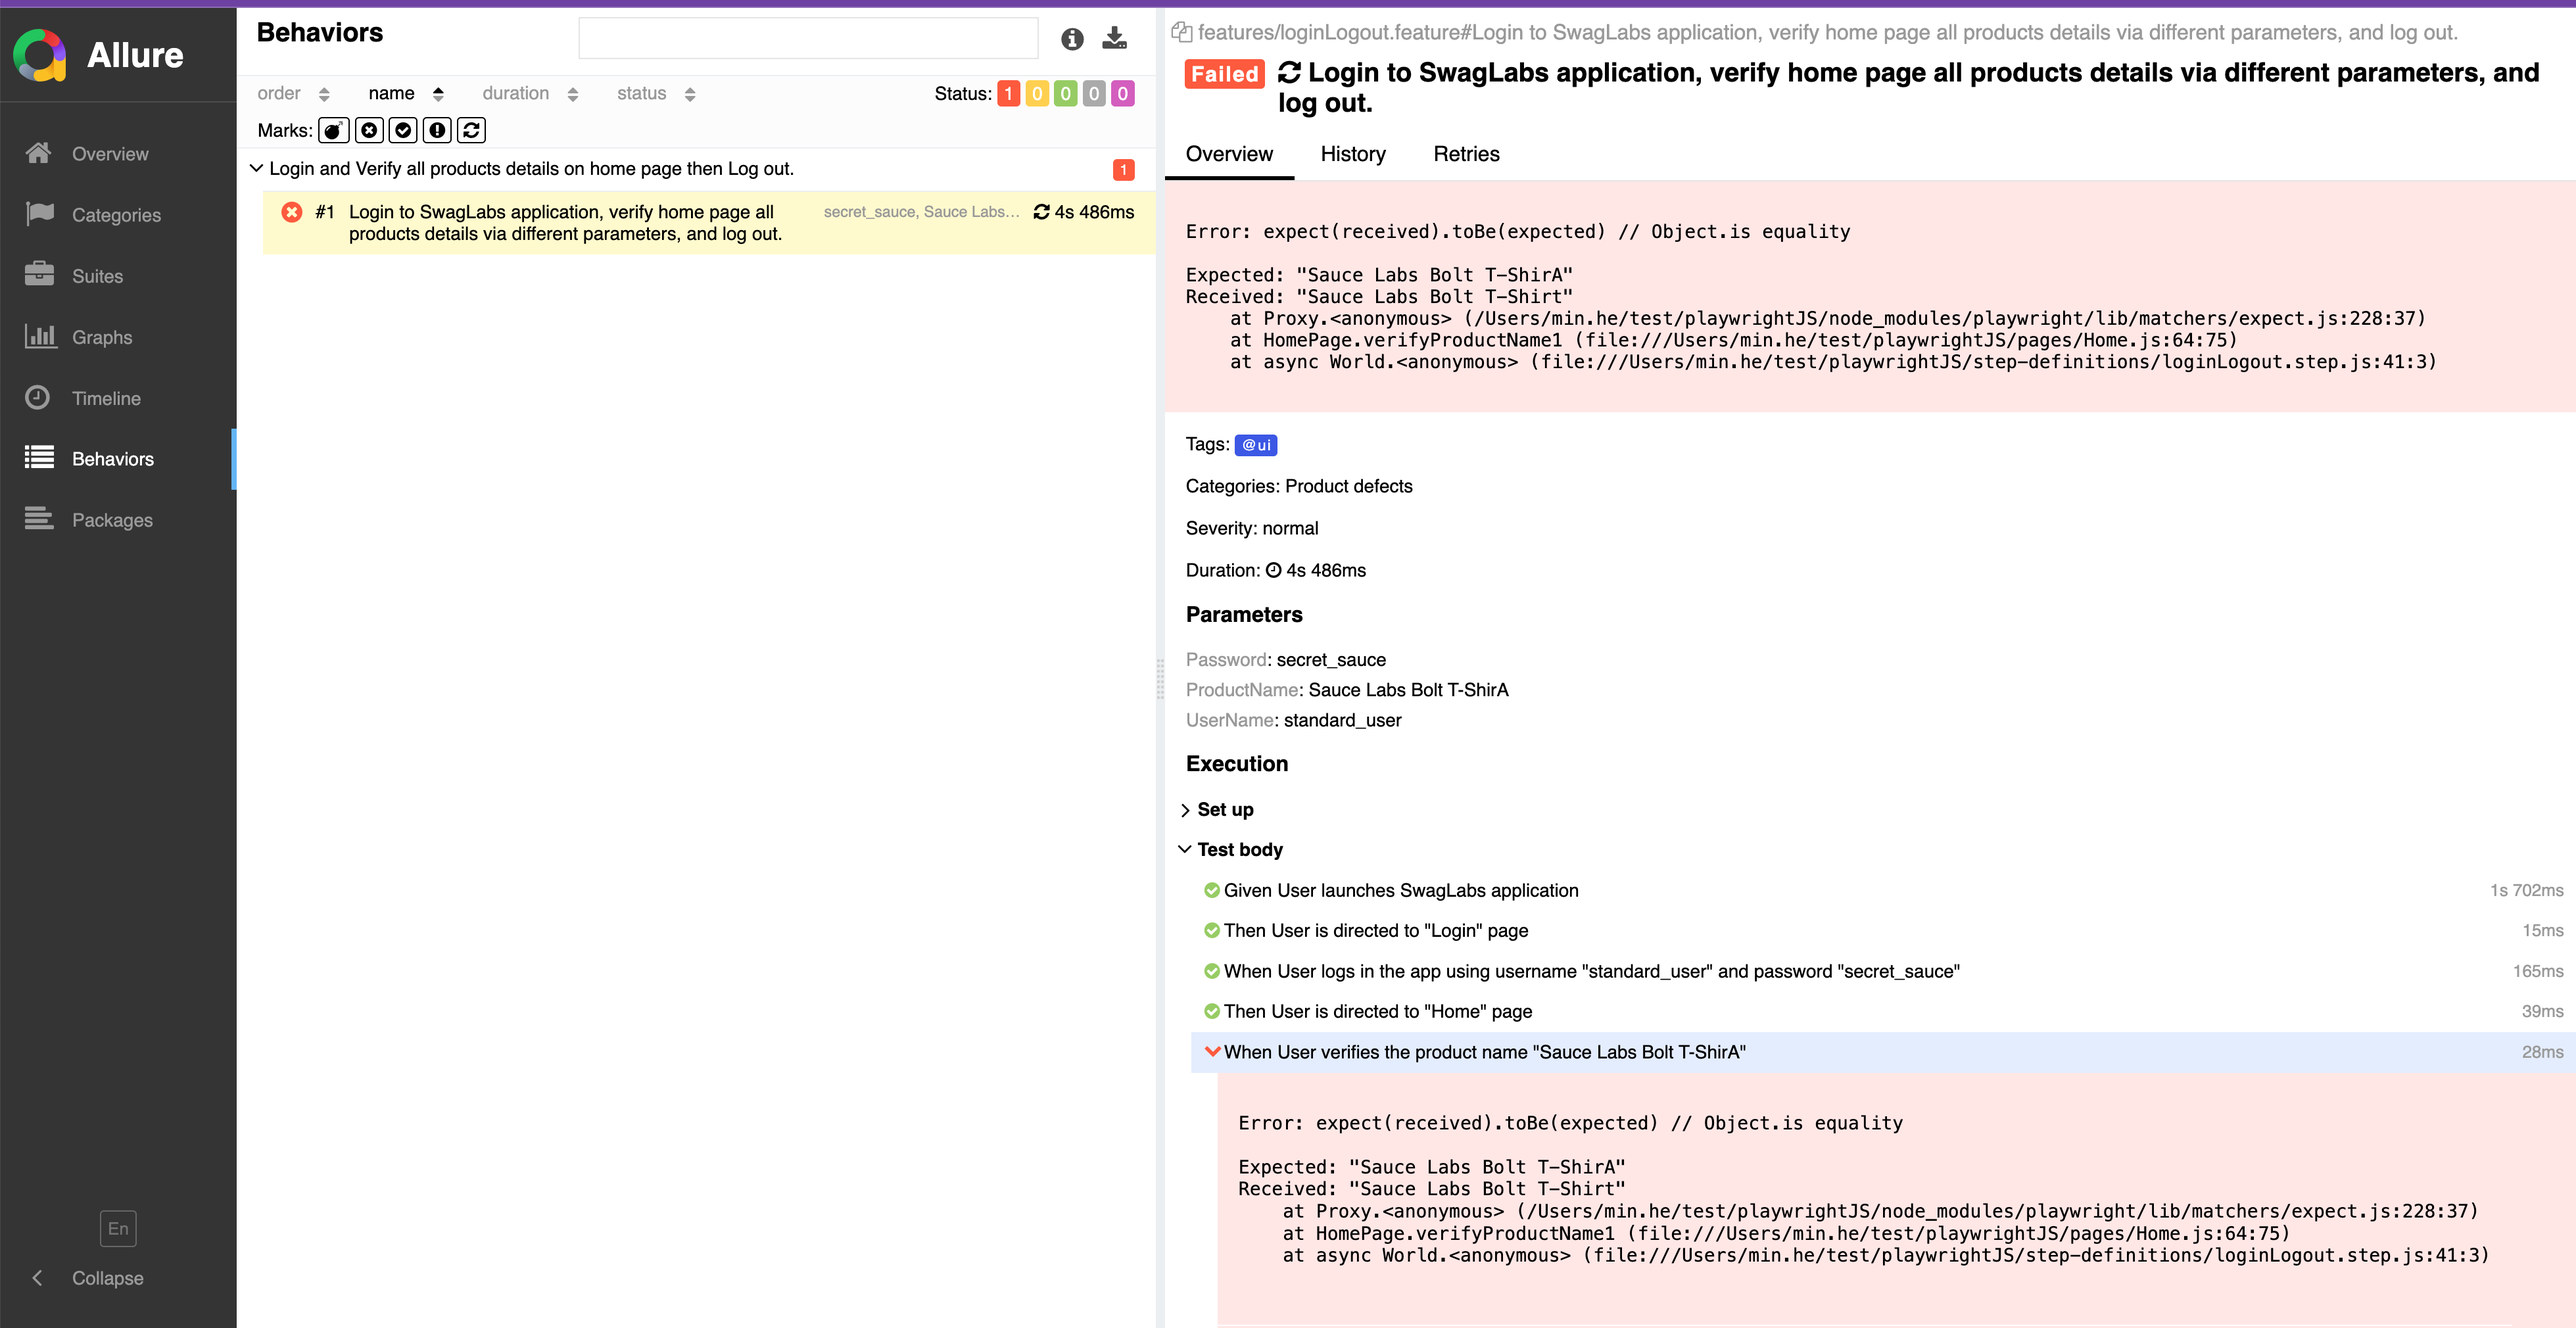
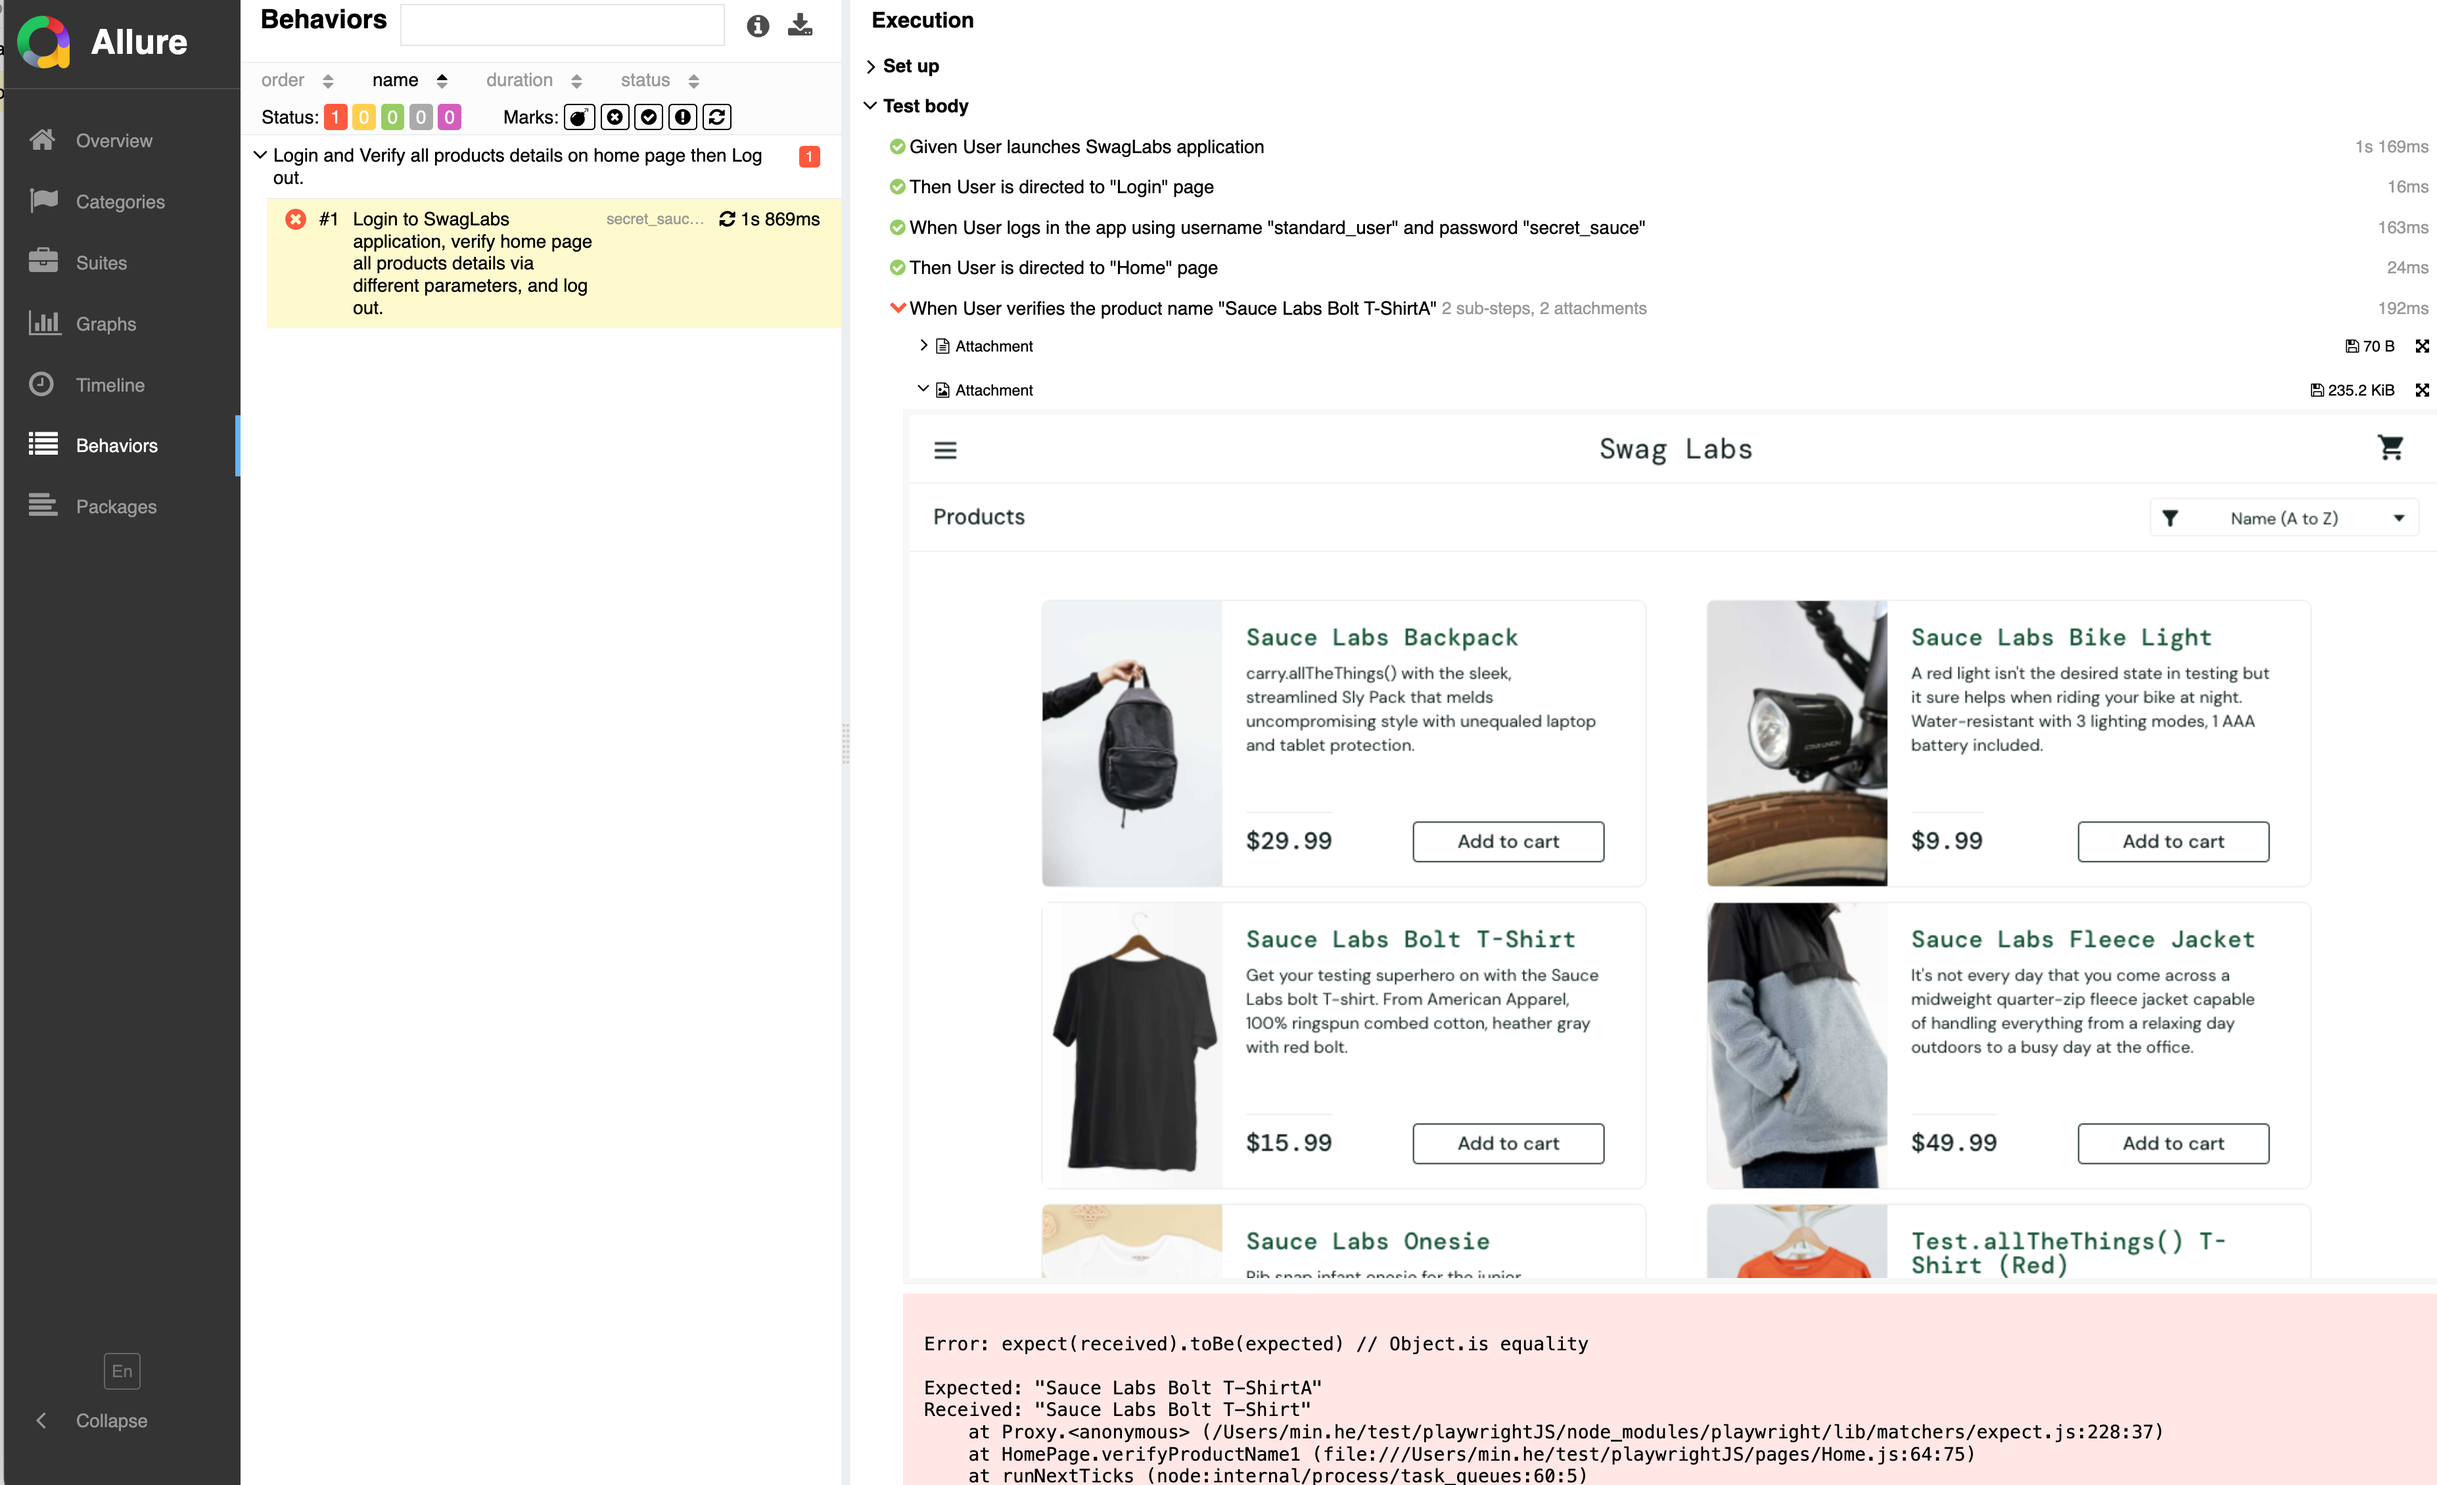
test: attach screenshot and test data into allure

diff --git a/step-definitions/loginLogout.step.js b/step-definitions/loginLogout.step.js
@@ -1,5 +1,6 @@
 import _ from "lodash";
 import { Given, When, Then, setDefaultTimeout } from "@cucumber/cucumber";
+import { ContentType } from "allure-js-commons";
 import UIPage from "../pages/components/UIPage.js";
 import SideNavigationMenu from "../pages/components/SideNavigationMenu.js";
 import LoginPage from "../pages/Login.js";
@@ -42,6 +43,10 @@ When(
     const filePath = "data/products.csv";
     const products = await getProducts(filePath);
     const selectedProduct = _.find(products, { productNo: productNum });
+    await this.attach(
+      `Test Data: ${JSON.stringify(selectedProduct, null, 2)}`,
+      ContentType.TEXT
+    );
 
     const homePage = await HomePage.create(this.page);
     await homePage.verifyProductDetails(selectedProduct);
@@ -51,6 +56,10 @@ When(
 When("User verifies all products details on Home page", async function () {
   const filePath = "data/products.csv";
   const products = await getProducts(filePath);
+  await this.attach(
+    `Test Data: ${JSON.stringify(products, null, 2)}`,
+    ContentType.TEXT
+  );
 
   const homePage = await HomePage.create(this.page);
   await homePage.verifyProductsDetails(products);

diff --git a/step-definitions/support/support.js b/step-definitions/support/support.js
@@ -1,5 +1,6 @@
-import { Before, After } from "@cucumber/cucumber";
+import { Before, After, AfterStep } from "@cucumber/cucumber";
 import playwright from "playwright";
+import { ContentType } from "allure-js-commons";
 
 Before(async function () {
   this.browser = await playwright.chromium.launch();
@@ -10,5 +11,20 @@ Before(async function () {
 After(async function () {
   if (this.browser) {
     await this.browser.close();
+  }
+});
+
+AfterStep(async function (step ) {
+  if (step.result.status !== "PASSED") {
+    try {
+      await this.attach(`FAILED Step: ${step.pickleStep.text}`, ContentType.TEXT);
+      const screenshot = await this.page.screenshot();
+      await this.attach(screenshot, ContentType.PNG);
+    } catch (error) {
+      console.error(
+        "Failed to capture screenshot or attach step details:",
+        error
+      );
+    }
   }
 });

diff --git a/step-definitions/support/world.js b/step-definitions/support/world.js
@@ -1,6 +1,7 @@
 import { setWorldConstructor } from '@cucumber/cucumber';
 
-setWorldConstructor(function () {
+setWorldConstructor(function ({attach}) {
   this.browser = null;
   this.page = null;
+  this.attach = attach;
 });
